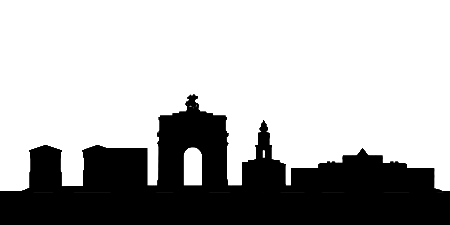
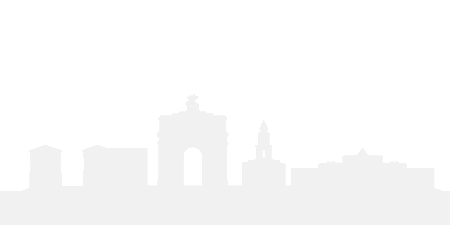
Add files via upload

diff --git a/scss/style.scss b/scss/style.scss
@@ -58,7 +58,7 @@ body {
   height: 100vh;
   margin-bottom: 100px;
   &__bg {
-    background: url(../img/info/город2.png);
+    background: url(../img/info/город.png);
     background-repeat: repeat-x;
     position: absolute;
     width: 100%;
@@ -281,6 +281,7 @@ main{
   // .intro__img
   &__img {
     width: 200px;
+    max-width: 100%;
     margin-bottom: 20px;
 
   }
@@ -290,7 +291,9 @@ main{
     font-size: 32px;
     line-height: 130%;
     font-weight: 700;
-    margin-bottom: 20px;
+    &:not(:last-child){
+      margin-bottom: 20px;
+    }
     @media (max-width: $md4+px) {
       font-size: 24px;
     }
@@ -371,11 +374,13 @@ main{
   // .info__title
   &__title {
     color: $black;
-    font-size: 24px;
+    font-size: 20px;
     font-weight: 700;
-    margin-bottom: 40px;
     text-transform: uppercase;
     text-align: center;
+    &:not(:last-child){
+      margin-bottom: 30px;
+    }
     @media (max-width: $md2+px) {
       display: none;
     }
@@ -403,10 +408,11 @@ main{
     color: $black;
     font-size: 24px;
     font-weight: 700;
-    margin-bottom: 20px;
     text-transform: uppercase;
     text-align: center;
-    margin-bottom: 60px;
+    &:not(:last-child){
+      margin-bottom: 60px;
+    }
   }
   // .team__items
   &__items {
@@ -508,7 +514,7 @@ main{
   position: relative;
   padding: 0 70px;
   margin-bottom: 130px;
-  @media (max-width: $md3+px) {
+  @media (max-width: $md2+px) {
     padding: 0;
     margin-bottom: 80px;
   }
@@ -542,7 +548,7 @@ main{
   
 }
 .swiper-button-prev, .swiper-button-next{
-  @media (max-width: $md3+px) {
+  @media (max-width: $md2+px) {
     display: none;
   }
 }
@@ -583,6 +589,9 @@ main{
   height: 100%;
   -o-object-fit: cover;
      object-fit: cover;
+     @media (max-width: 600px) {
+      width: 90%;
+    }
 }
 
 .swiper-container {

diff --git a/css/style.css b/css/style.css
@@ -117,7 +117,7 @@ body._lock {
   margin-bottom: 100px;
 }
 .header__bg {
-  background: url(../img/info/город2.png);
+  background: url(../img/info/город.png);
   background-repeat: repeat-x;
   position: absolute;
   width: 100%;
@@ -327,6 +327,7 @@ main {
 }
 .intro__img {
   width: 200px;
+  max-width: 100%;
   margin-bottom: 20px;
 }
 .intro__title {
@@ -334,6 +335,8 @@ main {
   font-size: 32px;
   line-height: 130%;
   font-weight: 700;
+}
+.intro__title:not(:last-child) {
   margin-bottom: 20px;
 }
 @media (max-width: 479.98px) {
@@ -403,11 +406,13 @@ main {
 }
 .info__title {
   color: #000000;
-  font-size: 24px;
+  font-size: 20px;
   font-weight: 700;
-  margin-bottom: 40px;
   text-transform: uppercase;
   text-align: center;
+}
+.info__title:not(:last-child) {
+  margin-bottom: 30px;
 }
 @media (max-width: 991.98px) {
   .info__title {
@@ -428,9 +433,10 @@ main {
   color: #000000;
   font-size: 24px;
   font-weight: 700;
-  margin-bottom: 20px;
   text-transform: uppercase;
   text-align: center;
+}
+.team__title:not(:last-child) {
   margin-bottom: 60px;
 }
 .team__items {
@@ -513,7 +519,7 @@ main {
   transform: translate(0, 0);
   opacity: 1;
 }
-@media (max-width: 767.98px) {
+@media (max-width: 991.98px) {
   .slider-warpper {
     padding: 0;
     margin-bottom: 80px;
@@ -551,7 +557,7 @@ main {
   color: #000;
 }
 
-@media (max-width: 767.98px) {
+@media (max-width: 991.98px) {
   .swiper-button-prev, .swiper-button-next {
     display: none;
   }
@@ -588,6 +594,11 @@ main {
   height: 100%;
   -o-object-fit: cover;
   object-fit: cover;
+}
+@media (max-width: 600px) {
+  .swiper-slide img {
+    width: 90%;
+  }
 }
 
 .swiper-container {

diff --git a/js/app.js b/js/app.js
@@ -62,10 +62,11 @@ var swiper = new Swiper(".mySwiper", {
           slidesPerView: 3,
           slidesPerGroup: 3,
         },
-        768: {
+        600: {
           slidesPerView: 2,
           slidesPerGroup: 2,
         },
+        
       },
         
   pagination: {
